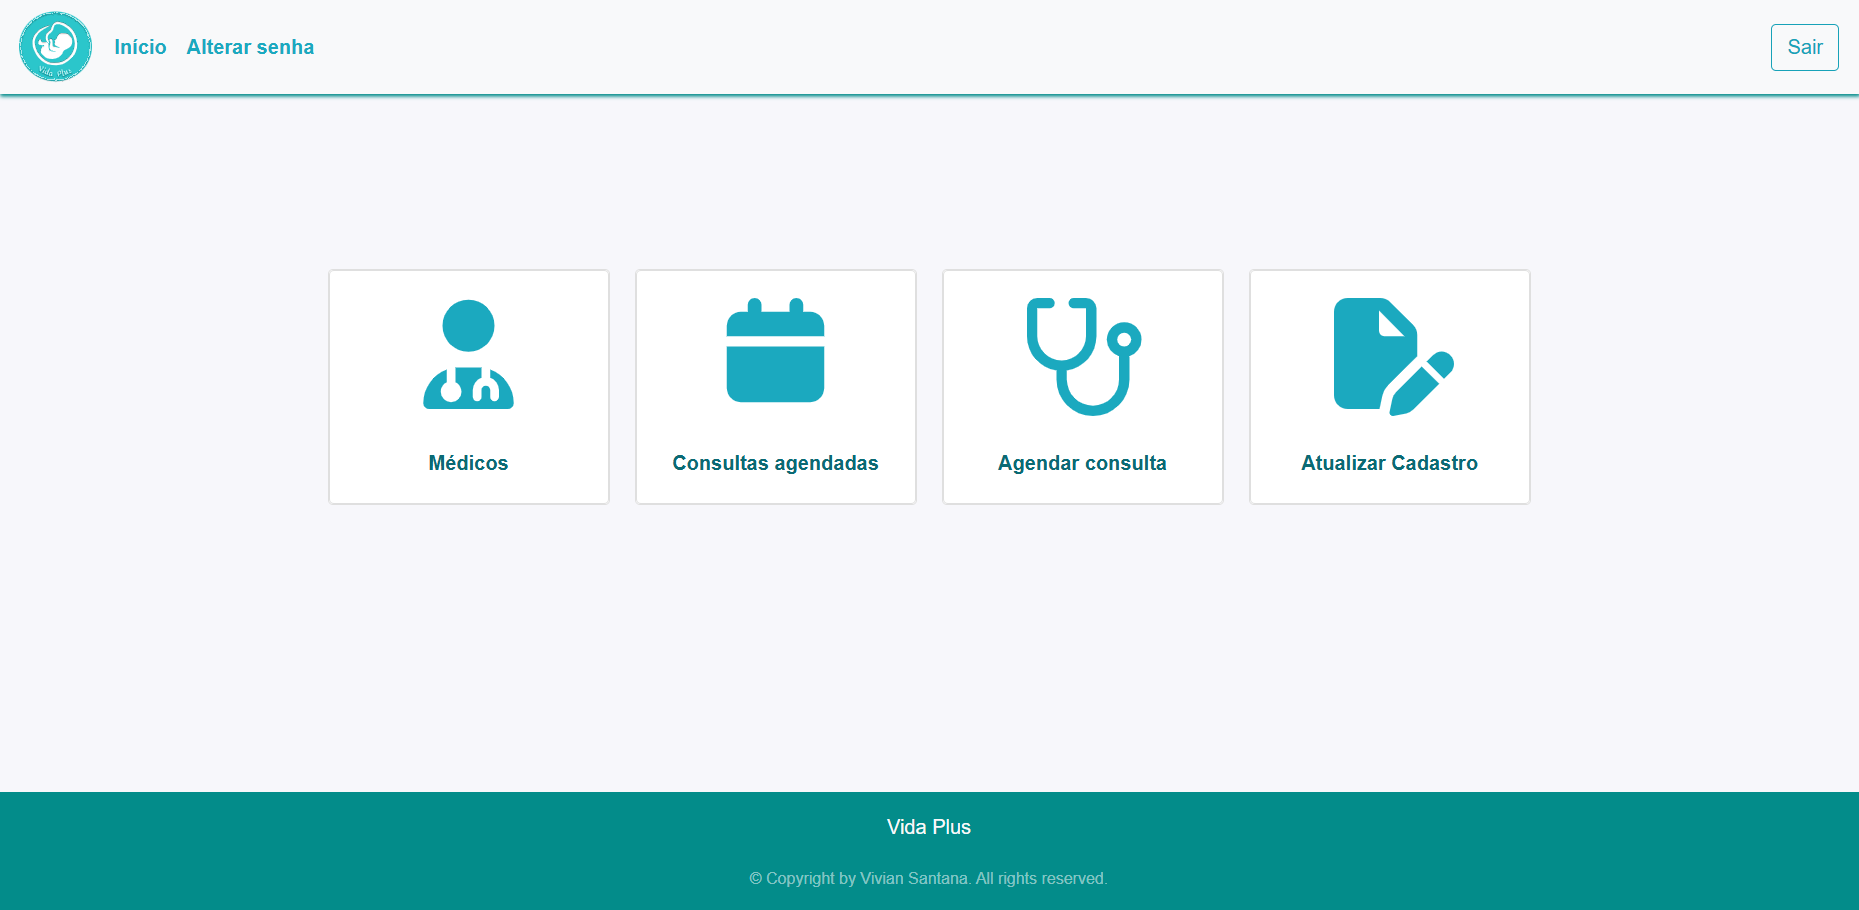
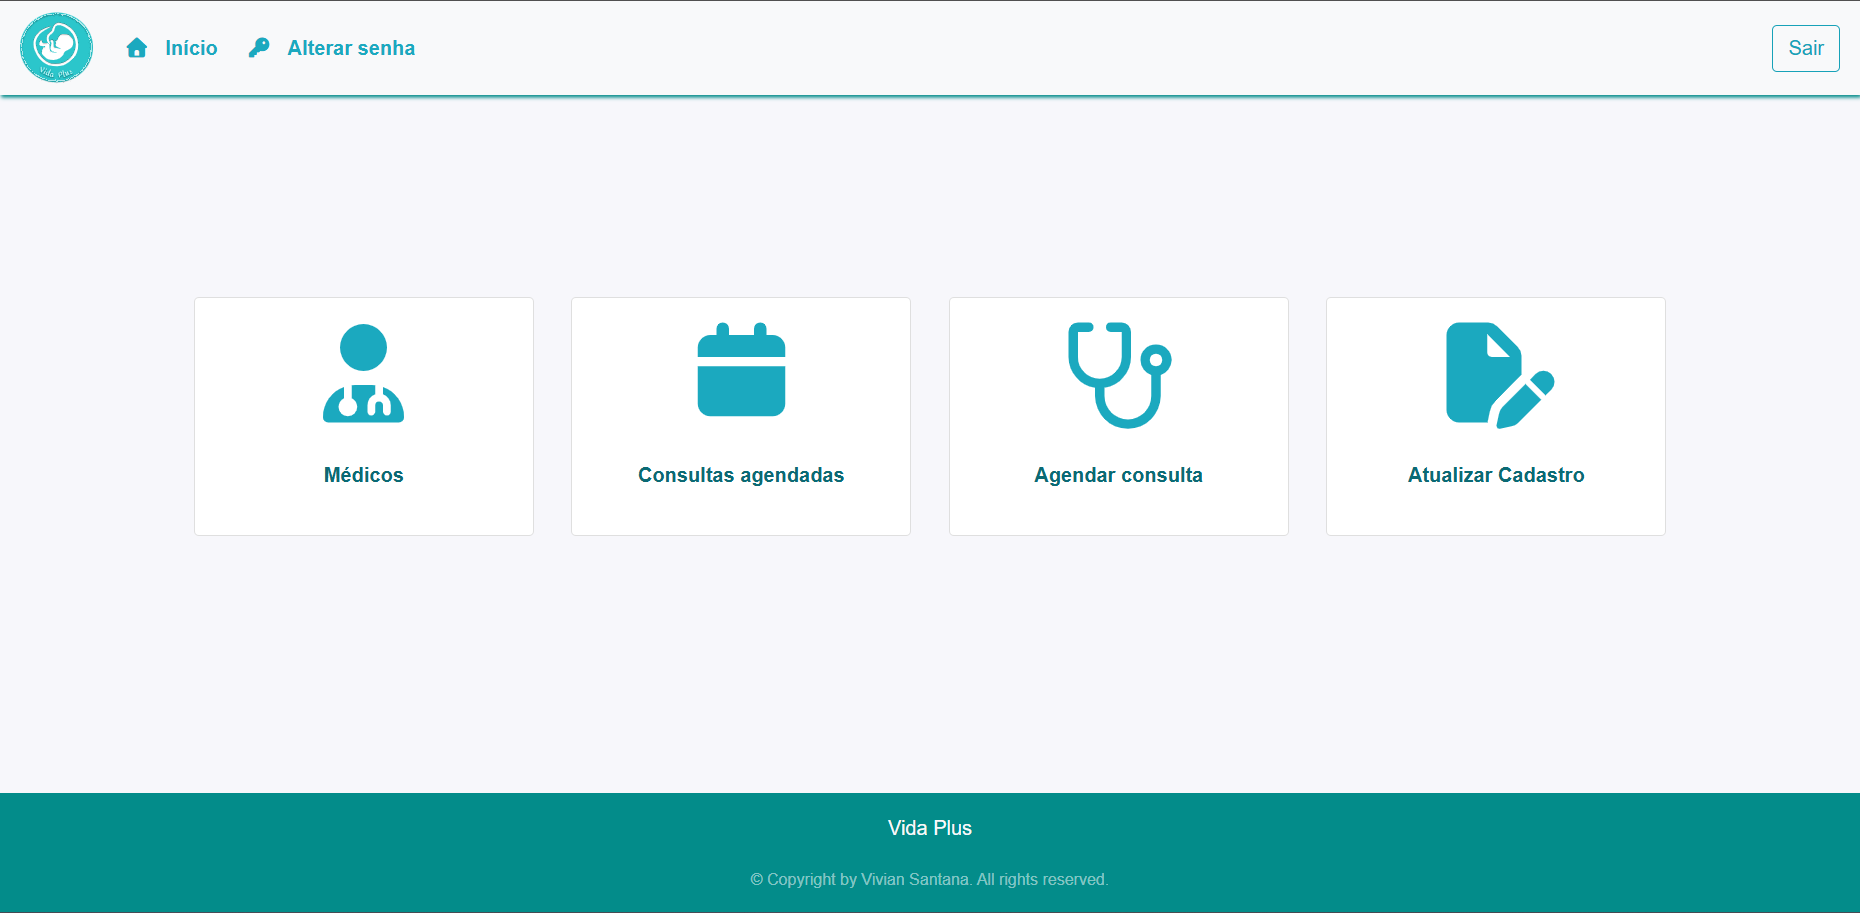
Refat.

diff --git a/src/app/features/inicio/components/home/home.component.css b/src/app/features/inicio/components/home/home.component.css
@@ -1,31 +1,19 @@
 .cards-container {
   display: flex;
-  gap: 20px;         
+  gap: 30px;         
   justify-content: center; 
   align-items: center;
   min-height: 65vh; 
-}
-
-.cards-container img{
-  width: 50%;
-  text-align: center;
-  margin-top: 10px;
-}
-
-.cards-container p{
-   font-weight: bold;
-   color: var(--cor-verde-azulado-escuro)!important;
+  min-height: calc(100vh - 151px -144px); /* altura total menos a navbar 151px e o footer 144px */
 }
 
 /* Responsividade */
-@media (max-width: 988px) {
-  .cards-container {
-    flex-direction: column;  /* empilha os cards */
-    align-items: center;     /* centraliza na tela */
-  }
 
-  .cards-container .card {
-    max-width: 80%;   /* ocupa 90% da tela menor */
-    margin-bottom: 15px;
+@media (max-width: 1024px) and (min-width: 200px) {
+  .cards-container {
+    flex-direction: column;
+    align-items: center;
+    min-height: calc(100vh - 151px);
+    padding-top: 48px;
   }
 }

diff --git a/src/app/features/inicio/cards/card-navegacao/card-navegacao.component.css b/src/app/features/inicio/cards/card-navegacao/card-navegacao.component.css
@@ -1,16 +1,16 @@
 .card{
-    max-width: 17rem; 
+    width: 17rem; 
     cursor:pointer;
     transition: transform .2s ease, box-shadow .2s ease;
 }
 
-.card__text{
+.card-body{
    font-weight: bold;
    color: var(--cor-verde-azulado-escuro)!important;
 }
 
 .card__icon{
-  width: 70%;
+  width: 6.25rem;
   text-align: center;
   margin-top: 10px;
 }

diff --git a/src/styles.css b/src/styles.css
@@ -28,7 +28,8 @@ body{
 }
 
 html, body { 
-    height: 100%; 
+    height: 100%;
+    overflow-x: hidden;
 }
 
 footer.bg-dark {
